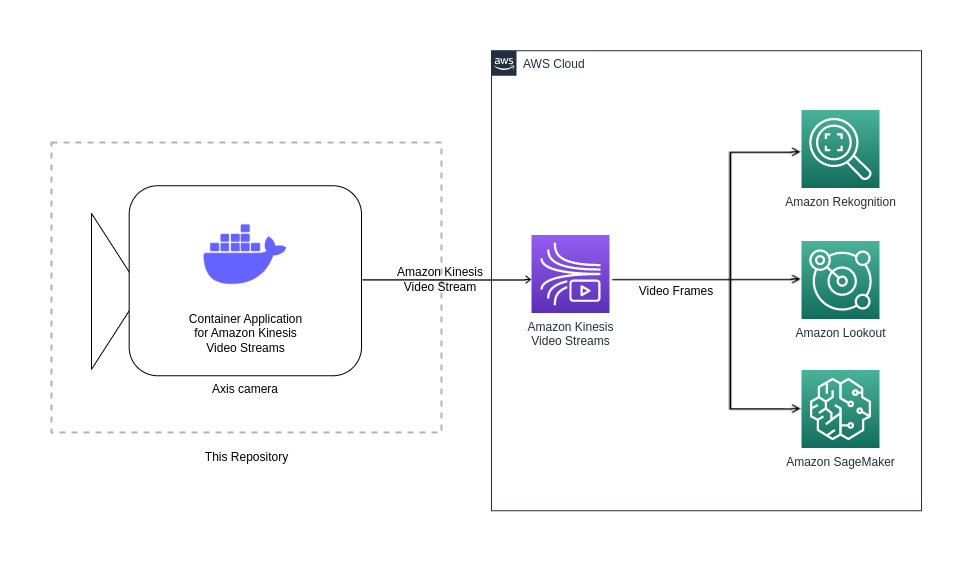
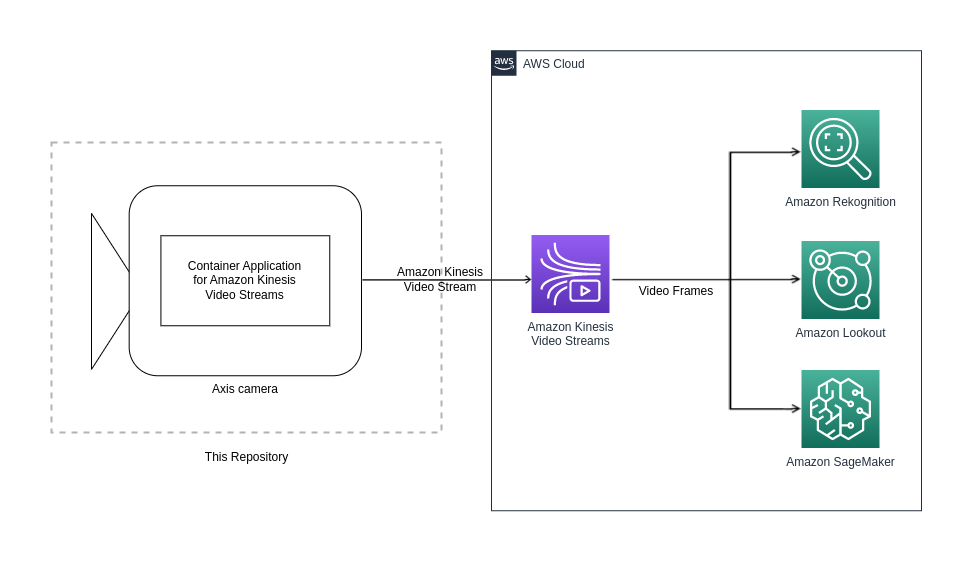
OSS related changes (#23)
* WSL2 requirement made as generic for Windows
* clarified access options as using IAM and AWS IoT
* IMAGE_TAG used in description
* docs: Add export to add variables sections
* docs: Add text and link to aws IAM docs
* Remove shell specific prefix in command output
* Update button text reference to be bold
* Make event based readme buttons bold
* Capitalize application references
* Replace appname abbrevations with full name
* Refer to event based streaming example from main readme
* docs: State jq only required for option 2
* Rearrange text for link to AWS IAM docs
* docs: Add limitation to start-on-app-event readme
* Provided DLPU enabled compatible devices list cross reference
* rephrasing limitations in start-on-app-event readme
* docs: Update start-on-app-event diagram
* feat: Change the created scenario and profile name
* docs: Update with scenario and profile name
* referred to generic analytics applications in description
* docs: Update container part of diagrams
* docs: Capitalize Docker Compose reference
* Updated License and Disclaimer sections of the README.md

Sections mentioned above updated in accordance with the tradmark
guidelines of Docker and also aligned with the Grafana example at:
https://github.com/AxisCommunications/tutorial-axis-object-analytics-to-grafana

* docs(readme): correct capitalization of 'axis'

---------

Changed region(s): [[0.1852, 0.3939, 0.3395, 0.6364]]

diff --git a/README.md b/README.md
@@ -16,14 +16,14 @@ perform image and or video analytics.
 
 - [Target Audience](#target-audience)
 - [Requirements](#requirements)
-- [Option 1: Access Key ID and Secret Access Key](#option-1-access-key-id-and-secret-access-key)
+- [Option 1: Access Kinesis Video Streams resources using IAM](#option-1-access-kinesis-video-streams-resources-using-iam)
     - [Variables](#variables)
         - [Container Build Variables](#container-build-variables)
         - [Container Runtime Variables](#container-runtime-variables)
     - [Install](#install)
         - [From Docker Hub](#from-docker-hub)
         - [Build Locally](#build-locally)
-- [Option 2: AWS IoT Certificate](#option-2-aws-iot-certificate)
+- [Option 2: Access Kinesis Video Streams resources using AWS IoT](#option-2-access-kinesis-video-streams-resources-using-aws-iot)
     - [Prerequisites](#prerequisites)
     - [Creating the Certificate Files](#creating-the-certificate-files)
     - [Install](#install-1)
@@ -32,8 +32,10 @@ perform image and or video analytics.
 - [Run on the Camera](#run-on-the-camera)
     - [Save and Load the Image to the Camera](#save-and-load-the-image-to-the-camera)
     - [Starting the Container](#starting-the-container)
+- [Use case - Event based Amazon Kinesis Video Streams](#use-case---event-based-amazon-kinesis-video-streams)
 - [Verify That the Amazon Kinesis Video Stream is Successfully Running](#verify-that-the-amazon-kinesis-video-stream-is-successfully-running)
 - [Known Limitations](#known-limitations)
+- [Disclaimer](#disclaimer)
 - [License](#license)
 
 ## Target Audience
@@ -46,27 +48,29 @@ offerings to connect and stream Axis cameras video into the Amazon Kinesis Video
 The following setup is supported:
 
 - Camera
-    - Chip: ARTPEC-{7-8} DLPU devices (e.g., Q1615 MkIII, P3265-LV)
+    - Chip: ARTPEC-{7-8} [DLPU enabled devices](https://axiscommunications.github.io/acap-documentation/docs/axis-devices-and-compatibility/#acap-computer-vision-sdk) (e.g., Q1615 MkIII, P3265-LV)
     - Firmware: 10.9 or higher
     - [Docker ACAP](https://github.com/AxisCommunications/docker-acap) installed and started, using TLS and SD card as storage
 
 - Computer
-    - OS: Linux/macOS running preferred shell, or Windows 10 with WSL2 installed to run Bash on Windows
+    - OS: Linux/macOS running preferred shell, or Windows with WSL2 installed to run Bash on Windows
     - AWS Account with [security credentials](https://docs.aws.amazon.com/IAM/latest/UserGuide/id_credentials_access-keys.html) generated
-        - [Option 1: Access key ID and Secret access key](#option-1-access-key-id-and-secret-access-key)
+        - [Option 1: Access Kinesis Video Streams resources using IAM](#option-1-access-kinesis-video-streams-resources-using-iam)
             - Access key ID
             - Secret access key
-        - [Option 2: AWS IoT certificate](#option-2-aws-iot-certificate)
-            - Option 1. Using AWS IoT certificate alone
-            - Option 2. Generating temporary credentials (temporary access key ID, secret access key and session token) from the IoT certificate
+        - [Option 2: Access Kinesis Video Streams resources using AWS IoT](#option-2-access-kinesis-video-streams-resources-using-aws-iot)
+            - Option 2.1. Using AWS IoT certificate alone
+            - Option 2.2. Generating temporary credentials (temporary access key ID, secret access key and session token) from the IoT certificate
     - AWS CLI
         - [Getting started with the AWS CLI](https://docs.aws.amazon.com/cli/latest/userguide/cli-chap-getting-started.html)
             - Ensure to choose a region that supports Amazon Kinesis Video Streams.
     - [Docker](https://docs.docker.com/get-docker/) with BuildKit enabled
     - [Docker Compose](https://docs.docker.com/compose/install/)
-    - [jq](https://stedolan.github.io/jq/), a lightweight command-line JSON processor
+    - Only required for option 2: [jq](https://stedolan.github.io/jq/), a lightweight command-line JSON processor
 
-## Option 1: Access Key ID and Secret Access Key
+## Option 1: Access Kinesis Video Streams resources using IAM
+
+When setting up an IAM user or a role for streaming to Amazon Kinesis Video Streams, see the [official AWS documentation](https://docs.aws.amazon.com/kinesisvideostreams/latest/dg/how-iam.html) describing how to define permissions.
 
 ### Variables
 
@@ -75,19 +79,19 @@ running it.
 
 #### Container Build Variables
 
-Add the image name as a shell variable so that it can be reused:
+Add the IMAGE_NAME as a shell variable so that it can be reused:
 
 ```sh
-IMAGE_NAME=axisecp/kinesis-video-stream-application
+export IMAGE_NAME=axisecp/kinesis-video-stream-application
 ```
 
-Also, add the image tag:
+Also, add the IMAGE_TAG:
 
 ```sh
-IMAGE_TAG=latest-<armv7hf or aarch64>
+export IMAGE_TAG=latest-<armv7hf or aarch64>
 ```
 
-where the image tag is `latest-armv7hf` for ARTPEC-7 and `latest-aarch64` for
+where the IMAGE_TAG is `latest-armv7hf` for ARTPEC-7 and `latest-aarch64` for
 ARTPEC-8 devices.
 
 #### Container Runtime Variables
@@ -127,13 +131,13 @@ Add the architecture for the Docker image as a shell variable, depending on the 
 system-on-chip. Use `arm32v7` for ARTPEC-7 devices:
 
 ```sh
-ARCH=arm32v7
+export ARCH=arm32v7
 ```
 
 and `arm64v8` for ARTPEC-8:
 
 ```sh
-ARCH=arm64v8
+export ARCH=arm64v8
 ```
 
 Once the shell variables have been added, the Docker image can be built:
@@ -142,7 +146,7 @@ Once the shell variables have been added, the Docker image can be built:
 docker buildx build --tag ${IMAGE_NAME}:${IMAGE_TAG} --build-arg ARCH --build-arg KVS_CPP_PRODUCER_SDK_TAG=v3.3.1 .
 ```
 
-## Option 2: AWS IoT Certificate
+## Option 2: Access Kinesis Video Streams resources using AWS IoT
 
 Amazon Kinesis Video Streams do not support certificate-based authentication, however, AWS IoT has a credentials provider that allows
 you to use the built-in X.509 certificate as the unique device identity to authenticate AWS requests.
@@ -234,10 +238,10 @@ With this option the image need **not** be rebuilt. To use this option the follo
     The script will echo the temporary credentials and environment variables to set:
 
     ```sh
-    √ ~ % ./generate_temporary_credentials.sh ../.env
+    ./generate_temporary_credentials.sh ../.env
     Temporary credentials created with an expiration date set to:2023-02-15T19:54:53Z
 
-    Run the following command in your shell to export the temporary credentials so that they can be picked up by docker compose.
+    Run the following command in your shell to export the temporary credentials so that they can be picked up by Docker Compose.
     export AWS_ACCESS_KEY_ID=********************
     export AWS_SECRET_ACCESS_KEY=******************
     export AWS_SESSION_TOKEN=************************
@@ -253,7 +257,7 @@ With this option the image need **not** be rebuilt. To use this option the follo
 
     > The actual values are much longer than the substitutes above `*****`
 
-3. When using the temporary credentials the original image from [Option 1: Access key ID and Secret access key](#option-1-access-key-id-and-secret-access-key) can be used with one minor update in to the `docker-compose.yml` file needed to start the Amazon Kinesis stream.
+3. When using the temporary credentials the original image from [Option 1: Access Kinesis Video Streams resources using IAM](#option-1-access-kinesis-video-streams-resources-using-iam) can be used with one minor update in to the `docker-compose.yml` file needed to start the Amazon Kinesis stream.
 
     - In the root folder of the repository update the `docker-compose.yml` to use the temporary credentials set in the exported environment variables above, in addition including the `AWS_SESSION_TOKEN`.
 
@@ -306,7 +310,7 @@ With this option the image **need to be rebuilt** to include the certificate. To
 Add the camera's IP address as a shell variable:
 
 ```sh
-DEVICE_IP=<camera IP>
+export DEVICE_IP=<camera IP>
 ```
 
 Clear Docker memory:
@@ -347,6 +351,11 @@ with default values, however these values can be modified according to the
 [kvssink parameter reference](https://docs.aws.amazon.com/kinesisvideostreams/latest/dg/examples-gstreamer-plugin-parameters.html)
 .
 
+## Use case - Event based Amazon Kinesis Video Streams
+
+This repository also includes an example use case [start-on-app-event](./start-on-app-event) that generates [Amazon Kinesis Video Streams](https://aws.amazon.com/kinesis/video-streams/) based on an event triggered by rules created with Axis analytics applications like [AXIS Object Analytics](https://www.axis.com/products/axis-object-analytics) or
+[AXIS Video Motion Detection](https://www.axis.com/products/axis-video-motion-detection).
+
 ## Verify That the Amazon Kinesis Video Stream is Successfully Running
 
 The most straightforward way to verify that the stream from the camera actually
@@ -356,7 +365,7 @@ reaches Amazon Kinesis Video Streams is to do it from the AWS UI.
 2. Search for and go to the Amazon Kinesis Video Streams service.
 3. Make sure that you are in the correct AWS region, and select the Amazon Kinesis
 video stream in the list.
-4. Click the 'Media Playback' button.
+4. Click the **Media Playback** button.
 5. If everything is set up correctly, the stream should show up. Wait a number
 of seconds since there might be a delay.
 
@@ -365,6 +374,22 @@ of seconds since there might be a delay.
 When streaming to Amazon Kinesis Video Streams there is a latency which can be
 affected by the selected AWS region, network setup and video resolution.
 
+## Disclaimer
+
+<!-- textlint-disable -->
+
+This document and its content are provided courtesy of Axis and all rights to the document shall remain vested in Axis Communications AB. AXIS COMMUNICATIONS, AXIS, ARTPEC and VAPIX are registered trademarks of Axis AB in various jurisdictions. All other trademarks are the property of their respective owners, and we are not affiliated with, endorsed or sponsored by them or their affiliates. Amazon Web Services, AWS and the Powered by AWS logo are trademarks of Amazon.com, Inc. or its affiliates. Docker and the Docker logo are trademarks or registered trademarks of Docker, Inc. in the United States and/or other countries. Docker, Inc. and other parties may also have trademark rights in other terms used herein.
+
+As described in this document, you may be able to connect to, access and use third party products, web sites, example code, software or services (“Third Party Services”). You acknowledge that any such connection and access to such Third Party Services are made available to you for convenience only. Axis does not endorse any Third Party Services, nor does Axis make any representations or provide any warranties whatsoever with respect to any Third Party Services, and Axis specifically disclaims any liability or obligations with regard to Third Party Services. The Third Party Services are provided to you in accordance with their respective terms and conditions, and you alone are responsible for ensuring that you (a) procure appropriate rights to access and use any such Third Party Services and (b) comply with the terms and conditions applicable to its use.
+
+PLEASE BE ADVISED THAT THIS DOCUMENT IS PROVIDED “AS IS” WITHOUT WARRANTY OF ANY KIND, AND IS NOT INTENDED TO, AND SHALL NOT, CREATE ANY LEGAL OBLIGATION FOR AXIS COMMUNICATIONS AB AND/OR ANY OF ITS AFFILIATES. THE ENTIRE RISK AS TO THE USE, RESULTS AND PERFORMANCE OF THIS DOCUMENT AND ANY THIRD PARTY SERVICES REFERENCED HEREIN IS ASSUMED BY THE USER OF THE DOCUMENT AND AXIS DISCLAIMS AND EXCLUDES, TO THE MAXIMUM EXTENT PERMITTED BY LAW, ALL WARRANTIES, WHETHER STATUTORY, EXPRESS OR IMPLIED, INCLUDING BUT NOT LIMITED TO ANY IMPLIED WARRANTIES OF MERCHANTABILITY, FITNESS FOR A PARTICULAR PURPOSE, TITLE AND NON-INFRINGEMENT AND PRODUCT LIABILITY.
+
+<!-- textlint-enable -->
+
 ## License
 
-[Apache 2.0](LICENSE)
+Example Code means the examples provided by Axis in this document within the grey text boxes.
+
+Example Code ©2023 Axis Communications AB is licensed under the [Apache License, Version 2.0 (the “License”)](./LICENSE). You may not use the Example Code except in compliance with the License.
+
+You may obtain a copy of the License at <https://www.apache.org/licenses/LICENSE-2.0>. Example Code distributed under the License is distributed on an “AS IS” BASIS, WITHOUT WARRANTIES OR CONDITIONS OF ANY KIND, either express or implied. See the License for the specific language governing permissions and limitations under the License.

diff --git a/start-on-app-event/README.md b/start-on-app-event/README.md
@@ -2,9 +2,9 @@
 
 This is an example of how the [Application for Amazon Kinesis Video Streams](../README.md)
 can be extended to only stream to [Amazon Kinesis Video Streams](https://aws.amazon.com/kinesis/video-streams/) when an object or
-motion is detected by either [Axis Object Analytics](https://www.axis.com/products/axis-object-analytics) (AOA) or
-[Axis Video Motion Detection](https://www.axis.com/products/axis-video-motion-detection) (VMD). When the example is run, an
-action rule and a scenario or profile is created in either AOA or VMD. The rule records clips and saves them to the SD-card when
+motion is detected by analytics applications like [AXIS Object Analytics](https://www.axis.com/products/axis-object-analytics) or
+[AXIS Video Motion Detection](https://www.axis.com/products/axis-video-motion-detection). When the example is run, an
+action rule and a scenario or profile is created in either AXIS Object Analytics or AXIS Video Motion Detection. The rule records clips and saves them to the SD-card when
 events occur in either application. Each recording is streamed to
 [Amazon Kinesis Video Streams](https://aws.amazon.com/kinesis/video-streams/).
 
@@ -24,13 +24,13 @@ running it.
 Add the image name as a shell variable:
 
 ```sh
-IMAGE_NAME=kvs-start-on-app-event
+export IMAGE_NAME=kvs-start-on-app-event
 ```
 
 Also, add the image tag:
 
 ```sh
-IMAGE_TAG=latest
+export IMAGE_TAG=latest
 ```
 
 ### Environment Variables
@@ -66,16 +66,17 @@ Add the architecture for the Docker image as a shell variable, depending on the 
 system-on-chip. Use `armv7hf` for ARTPEC-7 devices:
 
 ```sh
-ARCH=armv7hf
+export ARCH=armv7hf
 ```
 
 and `aarch64` for ARTPEC-8:
 
 ```sh
-ARCH=aarch64
+export ARCH=aarch64
 ```
 
 Once the shell variables have been added, the Docker image can be built:
+This would be an incremental build on top of "axisecp/kinesis-video-stream-application:latest-$ARCH" adding necessary files to build for the use case.
 
 ```sh
 docker buildx build --tag $IMAGE_NAME --build-arg ARCH .
@@ -92,19 +93,21 @@ Same as for the main application. See the save and load section in [Application 
 The most straightforward way to verify that the stream from the camera actually
 reaches Amazon Kinesis Video Streams is to do it from the AWS UI.
 
-1. Go to either the AOA or VMD app on the camera and view the created profile or scenario.
+1. Go to either the AXIS Object Analytics or AXIS Video Motion Detection app on the camera and view the created scenario or profile with the name 'Start-on-event'.
 (e.g. <http://192.168.0.1/local/vmd/index.html> or  <http://192.168.0.1/local/objectanalytics/index.html>).
-2. Trigger an event by clicking the button 'Test alarm'
+2. Trigger an event by clicking the button **Test alarm**
 3. Log in to your AWS account.
 4. Search for and go to the Amazon Kinesis Video Streams service.
 5. Make sure that you are in the correct AWS region, and select the Amazon Kinesis
 video stream in the list.
-6. Click the 'Media Playback' button.
+6. Click the **Media Playback** button.
 7. If everything is set up correctly, the stream should show up. Wait a number
 of seconds since there might be a delay.
 
 ## Known Limitations
 
-When streaming to Amazon Kinesis Video Streams there is a latency which can be
+* When streaming to Amazon Kinesis Video Streams there is a latency which can be
 affected by the selected AWS region, network setup and video resolution. This means that eventual event triggered recordings might
 appear in Amazon Kinesis Video Streams with a noticeable delay.
+
+* In the event rule configuration, there is a prebuffer and postbuffer durations configured to store 1sec and 5sec video clips respectively. However, if these durations are increased there is a risk that the the full clip is not uploaded to Amazon Kinesis since the file write to SD card might still be in progress while sending it. Please open an issue if this is something you have encountered and would like to discuss.
